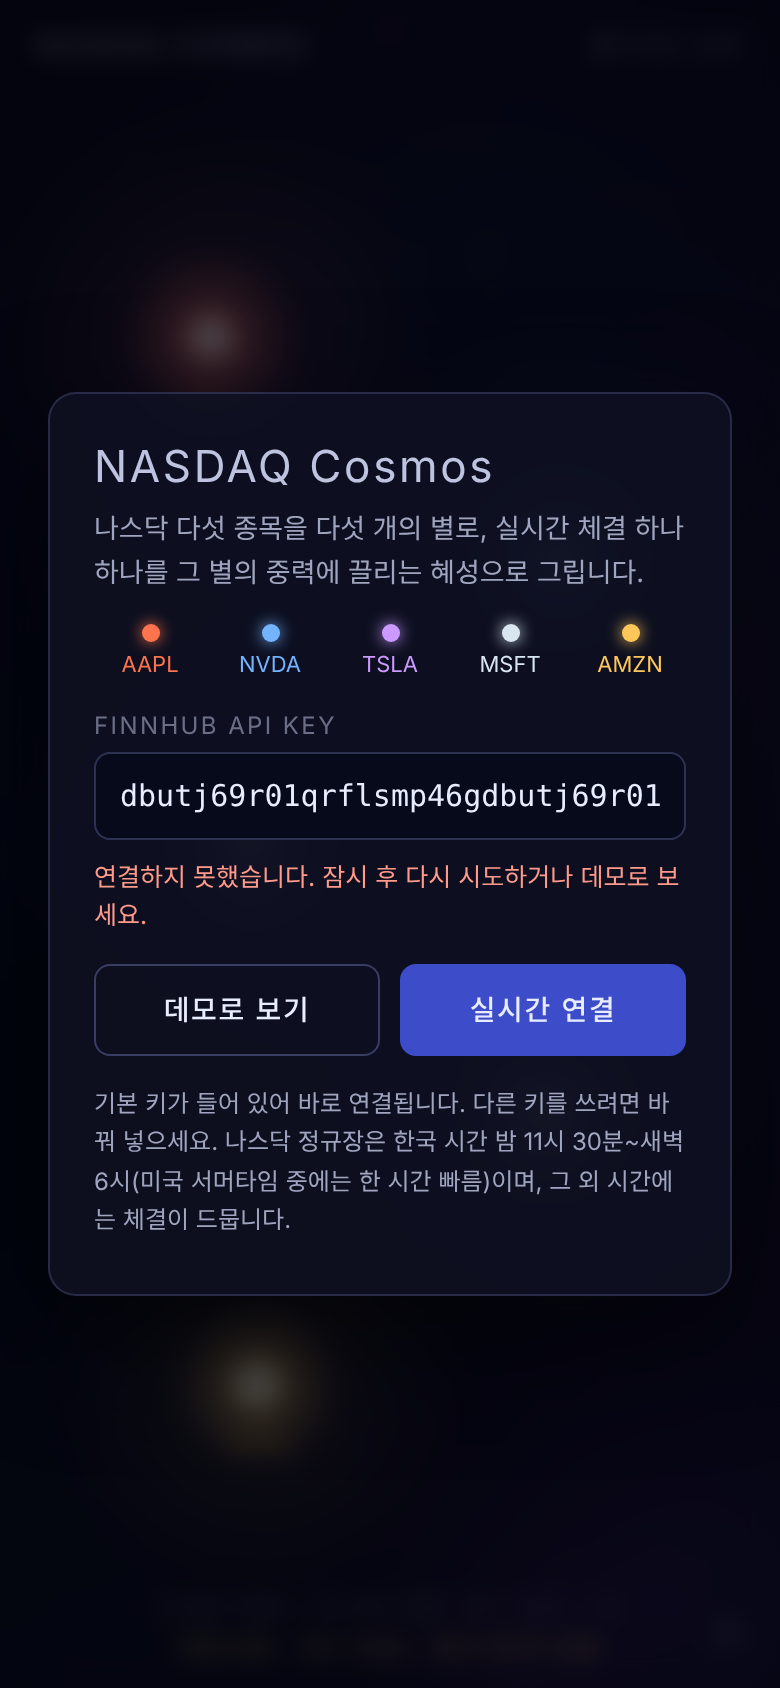
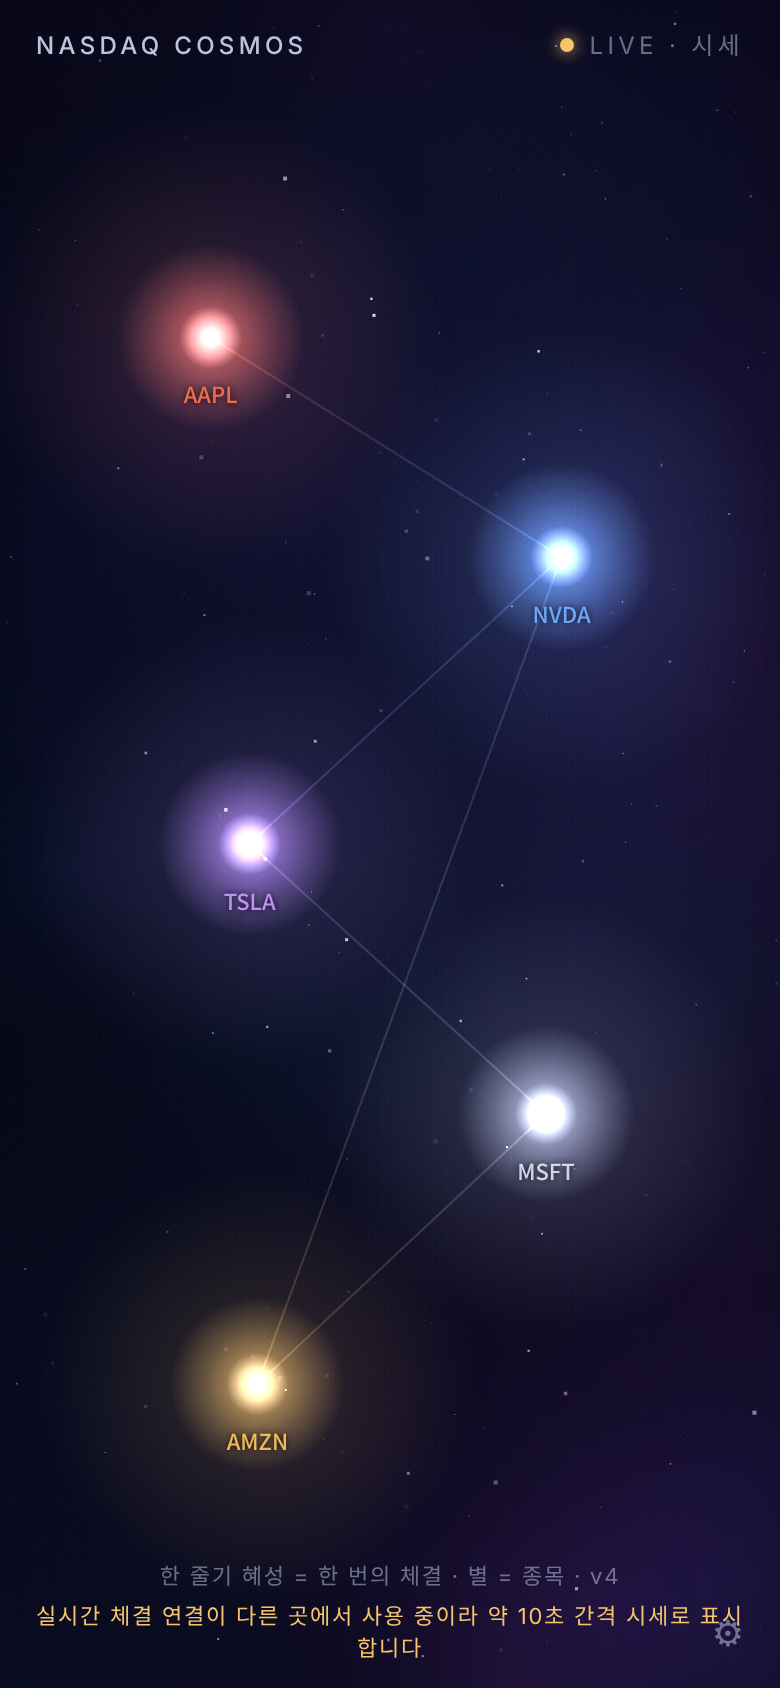
Fall back to quote polling when the live-trade slot is taken
Claude-Session: https://claude.ai/code/session_012XajGATf2bH2FqpCJcgjM2

diff --git a/index.html b/index.html
@@ -56,7 +56,7 @@
 <body>
 <canvas id="c"></canvas>
 <div class="hud"><span class="title">NASDAQ Cosmos</span><span class="status"><span class="dot" id="dot"></span><span id="stat">—</span></span></div>
-<div class="foot">한 줄기 혜성 = 한 번의 체결 · 별 = 종목 · v3<div id="diag" style="margin-top:4px;color:#f5c46b"></div></div>
+<div class="foot">한 줄기 혜성 = 한 번의 체결 · 별 = 종목 · v4<div id="diag" style="margin-top:4px;color:#f5c46b"></div></div>
 <button class="gear" id="gear" aria-label="설정">⚙</button>
 <div class="toast" id="toast"><span id="toastMsg"></span><button id="toastBtn"></button></div>
 
@@ -268,21 +268,22 @@
 
   // ---------- live ----------
   let ws = null, retry = 0, wantLive = false, demoTimer = null;
-  function connect(key) {
-    stopDemo(); wantLive = true; mode = 'live'; err.textContent = '';
+  function connect(key, quiet) {
+    if (!quiet) { stopDemo(); err.textContent = ''; }
+    wantLive = true;
     if (ws) { try { ws.onclose = null; ws.close(); } catch (e) {} }
-    setStatus('wait', '연결 중');
+    if (!quiet) setStatus('wait', '연결 중');
     let opened = false, msgCount = 0;
     ws = new WebSocket('wss://ws.finnhub.io?token=' + encodeURIComponent(key));
     ws.onopen = () => {
       opened = true; retry = 0;
       SYMS.forEach(s => ws.send(JSON.stringify({type: 'subscribe', symbol: s})));
-      setStatus('live', 'LIVE'); panel.classList.add('hidden');
+      if (mode !== 'quote') setStatus('wait', '연결됨 · 체결 대기'); panel.classList.add('hidden');
       try { localStorage.setItem('fh_key', key); } catch (e) {}
       lastTradeAt = performance.now(); toastShown = false;
     };
     ws.onmessage = ev => {
-      msgCount++; if (msgCount === 1) $('diag').textContent = '';
+      msgCount++; if (msgCount === 1) { $('diag').textContent = ''; stopQuotes(); mode = 'live'; setStatus('live', 'LIVE'); }
       let m; try { m = JSON.parse(ev.data); } catch (e) { return; }
       if (m.type === 'trade') for (const t of m.data || []) onTrade(t.s, +t.p, +t.v);
       else if (m.type === 'error') { err.textContent = m.msg || '오류'; $('diag').textContent = '서버 메시지: ' + (m.msg || '오류'); }
@@ -290,23 +291,52 @@
     ws.onerror = () => { $('diag').textContent = '연결 오류 (네트워크 또는 서버 거절)'; };
     ws.onclose = (ev) => {
       $('diag').textContent = '연결 닫힘 · 코드 ' + ev.code + (ev.reason ? ' · ' + ev.reason : '') + (msgCount ? '' : ' · 받은 데이터 없음');
-      if (!opened) {
-        if (key !== DEFAULT_KEY) { try { localStorage.removeItem('fh_key'); } catch (e) {} }
-        setStatus('', '연결 실패'); err.textContent = '연결하지 못했습니다. 잠시 후 다시 시도하거나 데모로 보세요.';
-        panel.classList.remove('hidden'); wantLive = false; return;
+      if (!opened || !msgCount) {
+        if (quiet || mode === 'quote') { if (!quoteTimer) startQuotes(key); return; }
+        startQuotes(key); return;
       }
       if (!wantLive) return;
+      if (mode === 'quote') return;
       setStatus('wait', '재연결 중');
       setTimeout(() => wantLive && connect(key), Math.min(15000, 1000 * Math.pow(2, retry++)));
     };
   }
+
+  // ---------- quote fallback (when the single live-trade slot is taken) ----------
+  let quoteTimer = null, wsRetryTimer = null, qi = 0;
+  const lastQuote = {};
+  function startQuotes(key) {
+    if (quoteTimer) return;
+    mode = 'quote'; setStatus('wait', 'LIVE · 시세');
+    $('diag').textContent = '실시간 체결 연결이 다른 곳에서 사용 중이라 약 10초 간격 시세로 표시합니다';
+    panel.classList.add('hidden');
+    const poll = async () => {
+      const s = SYMS[qi++ % SYMS.length];
+      try {
+        const r = await fetch('https://finnhub.io/api/v1/quote?symbol=' + s + '&token=' + encodeURIComponent(key));
+        if (!r.ok) return;
+        const q = await r.json(), c = +q.c;
+        if (!(c > 0)) return;
+        const prev = lastQuote[s]; lastQuote[s] = c;
+        if (!(s in base)) base[s] = c;
+        if (prev === undefined) { price[s] = c; last[s] = c; spawn(SYMS.indexOf(s), 10, 0); return; }
+        const moves = prev === c ? 1 : Math.min(8, 2 + Math.round(Math.abs(c - prev) / c * 20000));
+        for (let k = 0; k < moves; k++) setTimeout(() => onTrade(s, c, 5 + Math.random()*200), Math.random() * 1800);
+        if (prev !== c) last[s] = prev;
+      } catch (e) {}
+    };
+    poll(); quoteTimer = setInterval(poll, 2000);
+    // try to get the live-trade slot back every 60 s
+    wsRetryTimer = setInterval(() => connect(key, true), 60000);
+  }
+  function stopQuotes() { if (quoteTimer) clearInterval(quoteTimer); if (wsRetryTimer) clearInterval(wsRetryTimer); quoteTimer = wsRetryTimer = null; }
 
   // ---------- demo ----------
   const demoPrice = {AAPL: 353.5, NVDA: 152.9, TSLA: 384.8, MSFT: 504.9, AMZN: 266.4};
   const demoRate = [1.6, 2.4, 0.9, 0.7, 1.9];   // trades per second
   function startDemo() {
     wantLive = false; if (ws) { try { ws.onclose = null; ws.close(); } catch (e) {} ws = null; }
-    mode = 'demo'; panel.classList.add('hidden'); hideToast(); setStatus('demo', 'DEMO');
+    stopQuotes(); mode = 'demo'; panel.classList.add('hidden'); hideToast(); setStatus('demo', 'DEMO');
     stopDemo();
     demoTimer = setInterval(() => {
       SYMS.forEach((s, i) => {
